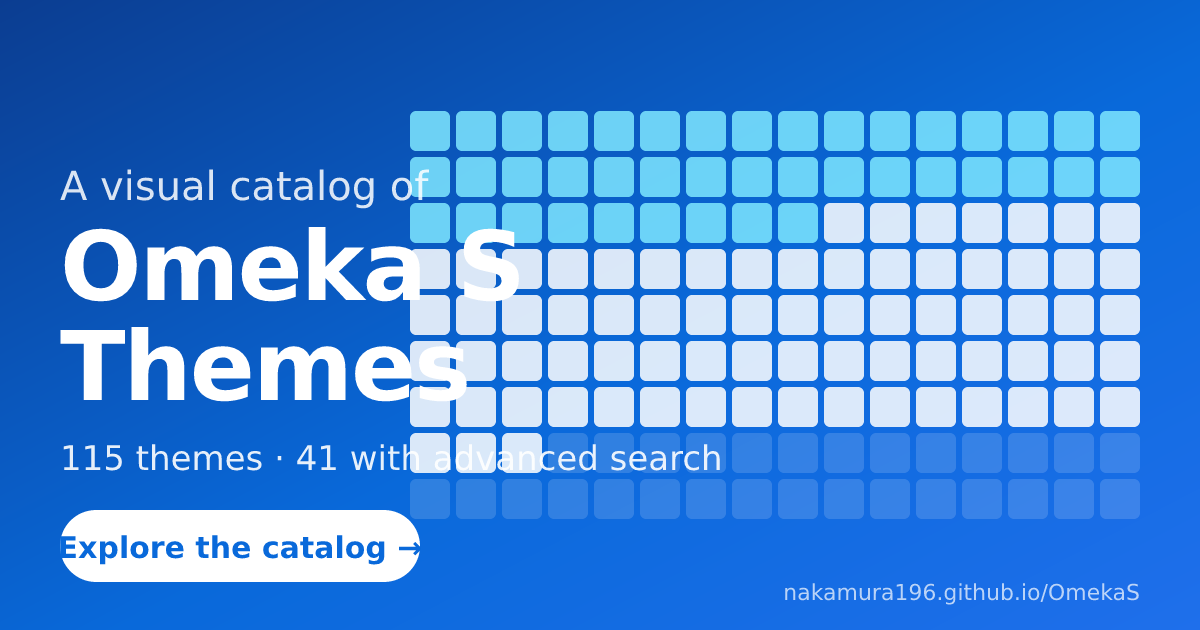
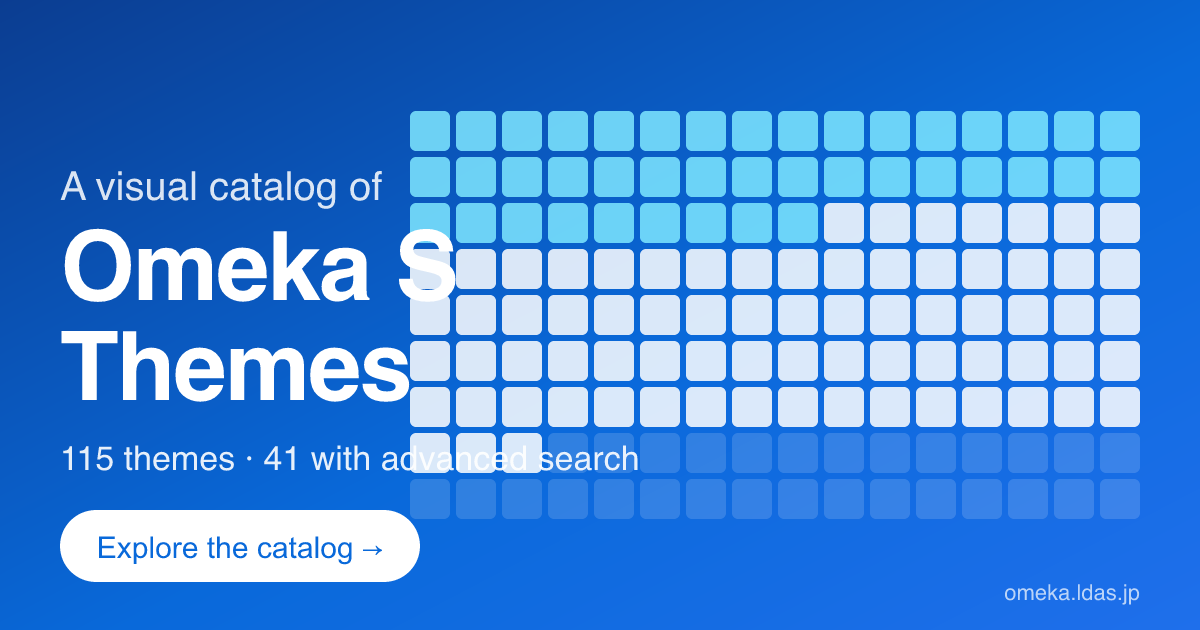
feat: 公開 URL を omeka.ldas.jp に移す (#2)
- scripts/build.mjs の SITE_URL を https://omeka.ldas.jp/ に。OGP 画像に焼き込むホスト名もここから
- build.mjs が docs/CNAME・robots.txt・sitemap.xml も書き出し、毎日の自動更新でコミットする
- 旧 github.io/OmekaS/ は GitHub Pages が同じパスへ 301
- テスト追加: npm test (生成関数と docs/ の公開 URL の固定 + 参照切れ・/ 始まり・旧ホスト文字列の検査)。
  PR の CI と、毎日の自動更新のコミット前に実行。npm run test:live は配布後の本番確認
- Actions を SHA で固定、Dependabot (npm・Actions、cooldown 付き) を追加

diff --git a/docs/index.html b/docs/index.html
@@ -5,7 +5,7 @@
 <meta name="viewport" content="width=device-width, initial-scale=1.0">
 <title>Omeka S Themes — GitHubで公開されているOmeka Sテーマのビジュアルカタログ</title>
 <meta name="description" content="GitHub上で公開されている115件超のOmeka Sテーマをビジュアル付きで一覧できるカタログサイトです。サムネイル・スター数・更新日・説明文を確認でき、名前/オーナー検索、ソート、高度検索対応テーマ(41件)での絞り込みに対応。毎日自動更新。">
-<link rel="canonical" href="https://nakamura196.github.io/OmekaS/">
+<link rel="canonical" href="https://omeka.ldas.jp/">
 
 <!-- Favicon -->
 <link rel="icon" type="image/svg+xml" href="./favicon.svg">
@@ -15,8 +15,8 @@
 <meta property="og:site_name" content="Omeka S Themes — GitHubで公開されているOmeka Sテーマのビジュアルカタログ">
 <meta property="og:title" content="Omeka S Themes — GitHubで公開されているOmeka Sテーマのビジュアルカタログ">
 <meta property="og:description" content="GitHub上で公開されている115件超のOmeka Sテーマをビジュアル付きで一覧できるカタログサイトです。サムネイル・スター数・更新日・説明文を確認でき、名前/オーナー検索、ソート、高度検索対応テーマ(41件)での絞り込みに対応。毎日自動更新。">
-<meta property="og:url" content="https://nakamura196.github.io/OmekaS/">
-<meta property="og:image" content="https://nakamura196.github.io/OmekaS/ogp.png">
+<meta property="og:url" content="https://omeka.ldas.jp/">
+<meta property="og:image" content="https://omeka.ldas.jp/ogp.png">
 <meta property="og:image:width" content="1200">
 <meta property="og:image:height" content="630">
 <meta property="og:image:alt" content="A visual catalog of Omeka S themes hosted on GitHub.">
@@ -26,7 +26,7 @@
 <meta name="twitter:card" content="summary_large_image">
 <meta name="twitter:title" content="Omeka S Themes — GitHubで公開されているOmeka Sテーマのビジュアルカタログ">
 <meta name="twitter:description" content="GitHub上で公開されている115件超のOmeka Sテーマをビジュアル付きで一覧できるカタログサイトです。サムネイル・スター数・更新日・説明文を確認でき、名前/オーナー検索、ソート、高度検索対応テーマ(41件)での絞り込みに対応。毎日自動更新。">
-<meta name="twitter:image" content="https://nakamura196.github.io/OmekaS/ogp.png">
+<meta name="twitter:image" content="https://omeka.ldas.jp/ogp.png">
 <meta name="twitter:image:alt" content="A visual catalog of Omeka S themes hosted on GitHub.">
 <style>
   :root {
@@ -86,7 +86,7 @@
   <div class="grid" id="grid"></div>
 </main>
 <footer>
-  Built at 2026-09-24T02:15:15.795Z · Source: <a href="https://github.com/Daniel-KM/UpgradeToOmekaS" target="_blank" rel="noopener">UpgradeToOmekaS</a>
+  Built at 2026-09-25T01:42:50.934Z · Source: <a href="https://github.com/Daniel-KM/UpgradeToOmekaS" target="_blank" rel="noopener">UpgradeToOmekaS</a>
 </footer>
 <script id="data" type="application/json">[{"name":"bookshelf","owner":"indic-archive","url":"https://github.com/indic-archive/bookshelf","description":"Bookshelf is a theme for Omeka S","stars":7,"last_updated":"2024-11-13T11:12:35Z","theme_url":"https://raw.githubusercontent.com/indic-archive/bookshelf/master/theme.jpg","has_advanced_search":false},{"name":"foundation","owner":"omeka-s-themes","url":"https://github.com/omeka-s-themes/foundation","description":"An Omeka S theme based off ZURB Foundation","stars":7,"last_updated":"2026-09-03T15:53:57Z","theme_url":"https://raw.githubusercontent.com/omeka-s-themes/foundation/main/theme.jpg","has_advanced_search":false},{"name":"omeka-s-theme-multilingual","owner":"arepr","url":"https://github.com/arepr/omeka-s-theme-multilingual","description":"Locale switching for Omeka S","stars":6,"last_updated":"2026-03-10T15:38:20Z","theme_url":"https://raw.githubusercontent.com/arepr/omeka-s-theme-multilingual/main/theme.jpg","has_advanced_search":false},{"name":"freedom","owner":"omeka-s-themes","url":"https://github.com/omeka-s-themes/freedom","description":"An Omeka S Theme","stars":4,"last_updated":"2026-09-12T02:23:53Z","theme_url":"https://raw.githubusercontent.com/omeka-s-themes/freedom/master/theme.jpg","has_advanced_search":true},{"name":"thedaily","owner":"omeka-s-themes","url":"https://github.com/omeka-s-themes/thedaily","description":null,"stars":4,"last_updated":"2026-09-03T15:53:42Z","theme_url":"https://raw.githubusercontent.com/omeka-s-themes/thedaily/main/theme.jpg","has_advanced_search":false},{"name":"AgileBaseOmekaTheme","owner":"agile-humanities","url":"https://github.com/agile-humanities/AgileBaseOmekaTheme","description":null,"stars":3,"last_updated":"2025-10-07T12:44:39Z","theme_url":null,"has_advanced_search":true},{"name":"centerrow","owner":"omeka-s-themes","url":"https://github.com/omeka-s-themes/centerrow","description":null,"stars":3,"last_updated":"2026-07-31T19:23:06Z","theme_url":"https://raw.githubusercontent.com/omeka-s-themes/centerrow/master/theme.jpg","has_advanced_search":false},{"name":"default","owner":"omeka-s-themes","url":"https://github.com/omeka-s-themes/default","description":null,"stars":3,"last_updated":"2026-09-03T15:50:59Z","theme_url":"https://raw.githubusercontent.com/omeka-s-themes/default/main/theme.jpg","has_advanced_search":false},{"name":"exhibits-omeka-s-theme","owner":"dharc-org","url":"https://github.com/dharc-org/exhibits-omeka-s-theme","description":null,"stars":3,"last_updated":"2026-04-14T14:28:36Z","theme_url":"https://raw.githubusercontent.com/dharc-org/exhibits-omeka-s-theme/main/theme.jpg","has_advanced_search":true},{"name":"Omeka-S-theme-psl","owner":"Daniel-KM","url":"https://github.com/Daniel-KM/Omeka-S-theme-psl","description":"PSL theme for Omeka S","stars":3,"last_updated":"2021-09-29T00:09:27Z","theme_url":"https://raw.githubusercontent.com/Daniel-KM/Omeka-S-theme-psl/master/theme.jpg","has_advanced_search":false},{"name":"speakout","owner":"dartmouth-dltg","url":"https://github.com/dartmouth-dltg/speakout","description":"Omeka-S theme for Dartmouth College Library's SpeakOut project","stars":3,"last_updated":"2025-03-26T20:32:36Z","theme_url":"https://raw.githubusercontent.com/dartmouth-dltg/speakout/main/theme.jpg","has_advanced_search":false},{"name":"bcda-theme","owner":"Omeka-External","url":"https://github.com/Omeka-External/bcda-theme","description":null,"stars":2,"last_updated":"2026-04-20T13:56:01Z","theme_url":"https://raw.githubusercontent.com/Omeka-External/bcda-theme/master/theme.jpg","has_advanced_search":false},{"name":"cozy","owner":"omeka-s-themes","url":"https://github.com/omeka-s-themes/cozy","description":null,"stars":2,"last_updated":"2026-09-08T14:07:28Z","theme_url":"https://raw.githubusercontent.com/omeka-s-themes/cozy/main/theme.jpg","has_advanced_search":false},{"name":"historical-accountability","owner":"dartmouth-dltg","url":"https://github.com/dartmouth-dltg/historical-accountability","description":"Custom Omeka-S theme for Dartmouth Library's Historical Accountability Project","stars":2,"last_updated":"2025-12-01T21:09:05Z","theme_url":"https://raw.githubusercontent.com/dartmouth-dltg/historical-accountability/main/theme.jpg","has_advanced_search":false},{"name":"lively","owner":"omeka-s-themes","url":"https://github.com/omeka-s-themes/lively","description":null,"stars":2,"last_updated":"2026-09-12T02:23:44Z","theme_url":"https://raw.githubusercontent.com/omeka-s-themes/lively/master/theme.jpg","has_advanced_search":true},{"name":"Omeka-S-Bootstrap-Theme","owner":"Libnamic","url":"https://github.com/Libnamic/Omeka-S-Bootstrap-Theme","description":null,"stars":2,"last_updated":"2022-11-07T15:11:07Z","theme_url":"https://raw.githubusercontent.com/Libnamic/Omeka-S-Bootstrap-Theme/master/theme.jpg","has_advanced_search":true},{"name":"Omeka-S-theme-Bootstrap5","owner":"ldasjp8","url":"https://github.com/ldasjp8/Omeka-S-theme-Bootstrap5","description":"[DEPRECATED] Moved to https://github.com/nakamura196/Omeka-S-theme-Bootstrap5","stars":2,"last_updated":"2025-08-29T21:56:27Z","theme_url":"https://raw.githubusercontent.com/ldasjp8/Omeka-S-theme-Bootstrap5/main/theme.jpg","has_advanced_search":true},{"name":"omeka-s-theme-DigitalMuret","owner":"INHAParis","url":"https://github.com/INHAParis/omeka-s-theme-DigitalMuret","description":"DigitalMuret theme for Omeka S","stars":2,"last_updated":"2025-10-21T08:42:54Z","theme_url":"https://raw.githubusercontent.com/INHAParis/omeka-s-theme-DigitalMuret/master/theme.jpg","has_advanced_search":false},{"name":"Omeka-S-theme-ExploreGrid","owner":"hxsllc","url":"https://github.com/hxsllc/Omeka-S-theme-ExploreGrid","description":"A responsive theme for Omeka-S v3.x with full configuration controls","stars":2,"last_updated":"2022-03-31T18:11:53Z","theme_url":"https://raw.githubusercontent.com/hxsllc/Omeka-S-theme-ExploreGrid/main/theme.jpg","has_advanced_search":false},{"name":"Omeka-S-theme-IIP","owner":"hxsllc","url":"https://github.com/hxsllc/Omeka-S-theme-IIP","description":"Omeka-S theme built for International Institute for Peace, Rutgers University","stars":2,"last_updated":"2021-09-29T00:09:14Z","theme_url":"https://raw.githubusercontent.com/hxsllc/Omeka-S-theme-IIP/main/theme.jpg","has_advanced_search":false},{"name":"plugin-AjaxCreate","owner":"omeka","url":"https://github.com/omeka/plugin-AjaxCreate","description":"Omeka plugin to add a way to create new records via ajax","stars":2,"last_updated":"2013-12-17T12:51:21Z","theme_url":null,"has_advanced_search":false},{"name":"ajotpy_theme","owner":"kylelarkin","url":"https://github.com/kylelarkin/ajotpy_theme","description":"A Journal of the Plague Year Custom Omeka S Theme","stars":1,"last_updated":"2023-07-26T17:01:15Z","theme_url":"https://raw.githubusercontent.com/kylelarkin/ajotpy_theme/master/theme.jpg","has_advanced_search":false},{"name":"basic-dartmouth-theme","owner":"dartmouth-dltg","url":"https://github.com/dartmouth-dltg/basic-dartmouth-theme","description":"A very basic Dartmouth Library Omeka-S theme","stars":1,"last_updated":"2025-12-01T21:07:13Z","theme_url":"https://raw.githubusercontent.com/dartmouth-dltg/basic-dartmouth-theme/main/theme.jpg","has_advanced_search":false},{"name":"bcda-child-theme","owner":"Omeka-External","url":"https://github.com/Omeka-External/bcda-child-theme","description":null,"stars":1,"last_updated":"2023-11-02T22:52:10Z","theme_url":"https://raw.githubusercontent.com/Omeka-External/bcda-child-theme/master/theme.jpg","has_advanced_search":true},{"name":"constellations-theme","owner":"Omeka-External","url":"https://github.com/Omeka-External/constellations-theme","description":null,"stars":1,"last_updated":"2026-08-19T20:59:37Z","theme_url":"https://raw.githubusercontent.com/Omeka-External/constellations-theme/main/theme.jpg","has_advanced_search":true},{"name":"dharc-omeka-s-theme","owner":"dharc-org","url":"https://github.com/dharc-org/dharc-omeka-s-theme","description":"Theme for Omeka-s","stars":1,"last_updated":"2022-11-24T14:52:56Z","theme_url":"https://raw.githubusercontent.com/dharc-org/dharc-omeka-s-theme/master/theme.jpg","has_advanced_search":false},{"name":"digitalcollecting","owner":"scholarslab","url":"https://github.com/scholarslab/digitalcollecting","description":"A theme for Omeka S","stars":1,"last_updated":"2020-11-02T23:28:29Z","theme_url":"https://raw.githubusercontent.com/scholarslab/digitalcollecting/master/theme.jpg","has_advanced_search":false},{"name":"IWAC-theme","owner":"fmadore","url":"https://github.com/fmadore/IWAC-theme","description":"Omeka S theme for the Islam West Africa Collection, an open-access francophone digital collection at ZMO Berlin. OKLCH design tokens, light/dark mode, EN/FR, WCAG 2.1 AA.","stars":1,"last_updated":"2026-09-18T14:57:11Z","theme_url":"https://raw.githubusercontent.com/fmadore/IWAC-theme/master/theme.jpg","has_advanced_search":false},{"name":"korematsu-theme","owner":"Omeka-External","url":"https://github.com/Omeka-External/korematsu-theme","description":null,"stars":1,"last_updated":"2026-08-20T23:49:42Z","theme_url":"https://raw.githubusercontent.com/Omeka-External/korematsu-theme/main/theme.jpg","has_advanced_search":true},{"name":"mitlibraries-theme-omeka","owner":"MITLibraries","url":"https://github.com/MITLibraries/mitlibraries-theme-omeka","description":"A theme for Omeka S","stars":1,"last_updated":"2026-05-21T18:18:04Z","theme_url":"https://raw.githubusercontent.com/MITLibraries/mitlibraries-theme-omeka/main/theme.jpg","has_advanced_search":true},{"name":"omeka-s-gpppoc-theme","owner":"kingsdigitallab","url":"https://github.com/kingsdigitallab/omeka-s-gpppoc-theme","description":null,"stars":1,"last_updated":"2018-01-18T08:49:15Z","theme_url":null,"has_advanced_search":false},{"name":"omeka-s-theme","owner":"religious-ecologies","url":"https://github.com/religious-ecologies/omeka-s-theme","description":null,"stars":1,"last_updated":"2023-12-18T03:47:05Z","theme_url":null,"has_advanced_search":true},{"name":"Omeka-S-theme-3DHOmekaS","owner":"FedericoNurra","url":"https://github.com/FedericoNurra/Omeka-S-theme-3DHOmekaS","description":"An Omeka S theme for 3DHOP visualisations","stars":1,"last_updated":"2026-03-22T15:30:27Z","theme_url":"https://raw.githubusercontent.com/FedericoNurra/Omeka-S-theme-3DHOmekaS/main/theme.jpg","has_advanced_search":true},{"name":"Omeka-S-theme-Bootstrap5","owner":"nakamura196","url":"https://github.com/nakamura196/Omeka-S-theme-Bootstrap5","description":null,"stars":1,"last_updated":"2025-09-11T15:37:38Z","theme_url":"https://raw.githubusercontent.com/nakamura196/Omeka-S-theme-Bootstrap5/main/theme.jpg","has_advanced_search":true},{"name":"omeka-s-theme-omekalia","owner":"biblibre","url":"https://github.com/biblibre/omeka-s-theme-omekalia","description":null,"stars":1,"last_updated":"2026-07-27T15:35:48Z","theme_url":"https://raw.githubusercontent.com/biblibre/omeka-s-theme-omekalia/master/theme.jpg","has_advanced_search":true},{"name":"omeka-s-theme-slavery-images","owner":"SlaveryImages","url":"https://github.com/SlaveryImages/omeka-s-theme-slavery-images","description":"Omeka S theme for SlaveryImages.org","stars":1,"last_updated":"2020-12-10T20:24:58Z","theme_url":"https://raw.githubusercontent.com/SlaveryImages/omeka-s-theme-slavery-images/master/theme.jpg","has_advanced_search":true},{"name":"omeka-s-theme-starterkit","owner":"sinanatra","url":"https://github.com/sinanatra/omeka-s-theme-starterkit","description":"This repo is my own starterkit for Omeka S projects","stars":1,"last_updated":"2024-06-30T21:39:26Z","theme_url":null,"has_advanced_search":false},{"name":"omekas-bootstrap-theme","owner":"medeopolis","url":"https://github.com/medeopolis/omekas-bootstrap-theme","description":"Omeka S theme based on bootstrap 3.3.7","stars":1,"last_updated":"2022-10-03T01:15:25Z","theme_url":"https://raw.githubusercontent.com/medeopolis/omekas-bootstrap-theme/master/theme.jpg","has_advanced_search":true},{"name":"OmekaS-Marriott-Library-Default-Theme","owner":"marriott-library","url":"https://github.com/marriott-library/OmekaS-Marriott-Library-Default-Theme","description":null,"stars":1,"last_updated":"2026-02-03T00:04:45Z","theme_url":"https://raw.githubusercontent.com/marriott-library/OmekaS-Marriott-Library-Default-Theme/master/theme.jpg","has_advanced_search":false},{"name":"Omekatheme","owner":"Libnamic","url":"https://github.com/Libnamic/Omekatheme","description":"theme for Omeka S ","stars":1,"last_updated":"2021-04-09T12:12:28Z","theme_url":"https://raw.githubusercontent.com/Libnamic/Omekatheme/master/theme.jpg","has_advanced_search":false},{"name":"the-fifty-acres","owner":"Liziloo","url":"https://github.com/Liziloo/the-fifty-acres","description":null,"stars":1,"last_updated":"2026-09-20T16:20:54Z","theme_url":"https://raw.githubusercontent.com/Liziloo/the-fifty-acres/main/theme.jpg","has_advanced_search":false},{"name":"UMFA-OmekaS-Theme","owner":"marriott-library","url":"https://github.com/marriott-library/UMFA-OmekaS-Theme","description":null,"stars":1,"last_updated":"2023-05-29T20:57:30Z","theme_url":"https://raw.githubusercontent.com/marriott-library/UMFA-OmekaS-Theme/main/theme.jpg","has_advanced_search":false},{"name":"UO-Library-Omeka-S-Theme","owner":"uoregon-libraries","url":"https://github.com/uoregon-libraries/UO-Library-Omeka-S-Theme","description":"A theme for Omeka S based on the default theme","stars":1,"last_updated":"2026-08-26T14:28:56Z","theme_url":"https://raw.githubusercontent.com/uoregon-libraries/UO-Library-Omeka-S-Theme/main/theme.jpg","has_advanced_search":false},{"name":"ahp-theme","owner":"pols12","url":"https://github.com/pols12/ahp-theme","description":"Omeka-S theme for e-HP website.","stars":0,"last_updated":"2018-08-12T22:20:08Z","theme_url":null,"has_advanced_search":false},{"name":"anwuvbeo-theme","owner":"IRISCenter","url":"https://github.com/IRISCenter/anwuvbeo-theme","description":"An Omeka S theme for the Schaefer Edoid Archive","stars":0,"last_updated":"2022-03-16T01:29:59Z","theme_url":"https://raw.githubusercontent.com/IRISCenter/anwuvbeo-theme/main/theme.jpg","has_advanced_search":false},{"name":"appalachian-trails","owner":"chnm","url":"https://github.com/chnm/appalachian-trails","description":"Omeka S theme for All the Appalachian Trails","stars":0,"last_updated":"2023-05-18T00:39:45Z","theme_url":null,"has_advanced_search":false},{"name":"byui-spc","owner":"jonfackrell","url":"https://github.com/jonfackrell/byui-spc","description":"A theme for Omeka S","stars":0,"last_updated":"2020-05-17T04:40:34Z","theme_url":"https://raw.githubusercontent.com/jonfackrell/byui-spc/master/theme.jpg","has_advanced_search":true},{"name":"cdash-theme","owner":"C-Dash","url":"https://github.com/C-Dash/cdash-theme","description":"An Omeka-S theme that supports a map interface, external map services  and a hierarchy pf Place and Document Items.","stars":0,"last_updated":"2025-07-02T13:54:47Z","theme_url":"https://raw.githubusercontent.com/C-Dash/cdash-theme/main/theme.jpg","has_advanced_search":false},{"name":"centerrow-taep","owner":"hxsllc","url":"https://github.com/hxsllc/centerrow-taep","description":"Edison Papers Omeka theme","stars":0,"last_updated":"2024-02-26T21:19:02Z","theme_url":"https://raw.githubusercontent.com/hxsllc/centerrow-taep/main/theme.jpg","has_advanced_search":true},{"name":"centerrow-temple","owner":"tulibraries","url":"https://github.com/tulibraries/centerrow-temple","description":"Customized Omeka-S theme based on CenterRow by the Omeka Team","stars":0,"last_updated":"2023-02-20T13:22:45Z","theme_url":"https://raw.githubusercontent.com/tulibraries/centerrow-temple/main/theme.jpg","has_advanced_search":false},{"name":"centerrowLoyola150","owner":"zmstella","url":"https://github.com/zmstella/centerrowLoyola150","description":"Files/documentation for the Then and Now: 150 at Loyola University Chicago development site ('centerrow' child theme)","stars":0,"last_updated":"2022-04-29T14:20:08Z","theme_url":"https://raw.githubusercontent.com/zmstella/centerrowLoyola150/main/theme.jpg","has_advanced_search":false},{"name":"clarity","owner":"omeka-s-themes","url":"https://github.com/omeka-s-themes/clarity","description":null,"stars":0,"last_updated":"2022-01-20T19:19:17Z","theme_url":null,"has_advanced_search":true},{"name":"collecting-these-times-spoke","owner":"chnm","url":"https://github.com/chnm/collecting-these-times-spoke","description":null,"stars":0,"last_updated":"2021-02-24T14:53:20Z","theme_url":"https://raw.githubusercontent.com/chnm/collecting-these-times-spoke/main/theme.jpg","has_advanced_search":true},{"name":"default-fondo-documental-ilv","owner":"MonicaCabanas23","url":"https://github.com/MonicaCabanas23/default-fondo-documental-ilv","description":null,"stars":0,"last_updated":"2026-08-26T03:04:07Z","theme_url":"https://raw.githubusercontent.com/MonicaCabanas23/default-fondo-documental-ilv/main/theme.jpg","has_advanced_search":false},{"name":"dlme-omeka-s-theme","owner":"waynegraham","url":"https://github.com/waynegraham/dlme-omeka-s-theme","description":"Omeka S theme for DLME Registry","stars":0,"last_updated":"2021-09-02T13:40:02Z","theme_url":"https://raw.githubusercontent.com/waynegraham/dlme-omeka-s-theme/main/theme.jpg","has_advanced_search":true},{"name":"DRE-theme","owner":"AM-Digital-Research-Environment","url":"https://github.com/AM-Digital-Research-Environment/DRE-theme","description":"Omeka S theme for the Africa Multiple Cluster of Excellence (University of Bayreuth) — a “Scholarly Modernism” design system on an OKLCH design-token foundation, with first-class light and dark modes.","stars":0,"last_updated":"2026-09-22T08:27:19Z","theme_url":"https://raw.githubusercontent.com/AM-Digital-Research-Environment/DRE-theme/master/theme.jpg","has_advanced_search":false},{"name":"exhibits-omeka-s-theme","owner":"katalu","url":"https://github.com/katalu/exhibits-omeka-s-theme","description":null,"stars":0,"last_updated":"2021-11-16T09:17:30Z","theme_url":"https://raw.githubusercontent.com/katalu/exhibits-omeka-s-theme/main/theme.jpg","has_advanced_search":true},{"name":"fam-oer-theme","owner":"Omeka-External","url":"https://github.com/Omeka-External/fam-oer-theme","description":null,"stars":0,"last_updated":"2026-09-17T01:16:18Z","theme_url":"https://raw.githubusercontent.com/Omeka-External/fam-oer-theme/main/theme.jpg","has_advanced_search":true},{"name":"fit-aod","owner":"fitnycdigitalinitiatives","url":"https://github.com/fitnycdigitalinitiatives/fit-aod","description":"Omeka-S theme for Archive on Demand","stars":0,"last_updated":"2026-05-07T15:46:41Z","theme_url":"https://raw.githubusercontent.com/fitnycdigitalinitiatives/fit-aod/main/theme.jpg","has_advanced_search":true},{"name":"fit-df","owner":"fitnycdigitalinitiatives","url":"https://github.com/fitnycdigitalinitiatives/fit-df","description":"Designer Files omeka-s theme","stars":0,"last_updated":"2026-05-07T15:56:36Z","theme_url":"https://raw.githubusercontent.com/fitnycdigitalinitiatives/fit-df/main/theme.jpg","has_advanced_search":true},{"name":"fit-fc","owner":"fitnycdigitalinitiatives","url":"https://github.com/fitnycdigitalinitiatives/fit-fc","description":"Fashion Calendar theme for omeka-s","stars":0,"last_updated":"2026-04-22T12:56:54Z","theme_url":"https://raw.githubusercontent.com/fitnycdigitalinitiatives/fit-fc/main/theme.jpg","has_advanced_search":true},{"name":"fit-ir","owner":"fitnycdigitalinitiatives","url":"https://github.com/fitnycdigitalinitiatives/fit-ir","description":"Omeka-S theme for the FIT Institutional Repository. Built upon Bootstrap framework. Works with FITModule, Relators Module, and FIT-forked Solr modules, and FIT-forked MetadataBrowse.","stars":0,"last_updated":"2026-05-07T15:43:32Z","theme_url":"https://raw.githubusercontent.com/fitnycdigitalinitiatives/fit-ir/main/theme.jpg","has_advanced_search":true},{"name":"fit-sd","owner":"fitnycdigitalinitiatives","url":"https://github.com/fitnycdigitalinitiatives/fit-sd","description":"Omeka-S theme for SPARC Digital","stars":0,"last_updated":"2026-06-11T20:24:15Z","theme_url":"https://raw.githubusercontent.com/fitnycdigitalinitiatives/fit-sd/main/theme.jpg","has_advanced_search":true},{"name":"gmu-cml-theme","owner":"Omeka-External","url":"https://github.com/Omeka-External/gmu-cml-theme","description":null,"stars":0,"last_updated":"2026-08-20T19:54:26Z","theme_url":"https://raw.githubusercontent.com/Omeka-External/gmu-cml-theme/main/theme.jpg","has_advanced_search":true},{"name":"hearing-the-americas","owner":"chnm","url":"https://github.com/chnm/hearing-the-americas","description":"Omeka S theme for Hearing the Americas","stars":0,"last_updated":"2023-05-18T00:41:50Z","theme_url":null,"has_advanced_search":false},{"name":"horses-in-medicine","owner":"Omeka-External","url":"https://github.com/Omeka-External/horses-in-medicine","description":"Fork of Foundation S with a custom stylesheet for Use of Horses in Medicine","stars":0,"last_updated":"2020-09-01T13:57:12Z","theme_url":"https://raw.githubusercontent.com/Omeka-External/horses-in-medicine/horse-theme/theme.jpg","has_advanced_search":true},{"name":"inglorious_artist_theme","owner":"UNC-Libraries-data","url":"https://github.com/UNC-Libraries-data/inglorious_artist_theme","description":null,"stars":0,"last_updated":"2024-04-19T18:20:43Z","theme_url":"https://raw.githubusercontent.com/UNC-Libraries-data/inglorious_artist_theme/main/theme.jpg","has_advanced_search":true},{"name":"ksharp","owner":"UIUCLibrary","url":"https://github.com/UIUCLibrary/ksharp","description":null,"stars":0,"last_updated":"2025-06-03T18:49:31Z","theme_url":"https://raw.githubusercontent.com/UIUCLibrary/ksharp/main/theme.jpg","has_advanced_search":false},{"name":"legacies-hub","owner":"Omeka-External","url":"https://github.com/Omeka-External/legacies-hub","description":null,"stars":0,"last_updated":"2022-04-28T19:05:59Z","theme_url":"https://raw.githubusercontent.com/Omeka-External/legacies-hub/main/theme.jpg","has_advanced_search":true},{"name":"legacies-spoke","owner":"Omeka-External","url":"https://github.com/Omeka-External/legacies-spoke","description":null,"stars":0,"last_updated":"2024-05-17T17:26:57Z","theme_url":"https://raw.githubusercontent.com/Omeka-External/legacies-spoke/main/theme.jpg","has_advanced_search":true},{"name":"omeka-foundation-theme","owner":"DigitalHDev","url":"https://github.com/DigitalHDev/omeka-foundation-theme","description":"omeka-foundation-theme","stars":0,"last_updated":"2026-08-30T13:45:59Z","theme_url":"https://raw.githubusercontent.com/DigitalHDev/omeka-foundation-theme/master/theme.jpg","has_advanced_search":false},{"name":"Omeka-S-Akrep-Theme","owner":"procesaur","url":"https://github.com/procesaur/Omeka-S-Akrep-Theme","description":"Theme for Omeka-S-based advanced active repositories","stars":0,"last_updated":"2026-05-09T13:46:35Z","theme_url":"https://raw.githubusercontent.com/procesaur/Omeka-S-Akrep-Theme/main/theme.jpg","has_advanced_search":false},{"name":"omeka-s-dlll-theme","owner":"billxu0521","url":"https://github.com/billxu0521/omeka-s-dlll-theme","description":"omeka s主題","stars":0,"last_updated":"2023-01-28T13:00:46Z","theme_url":"https://raw.githubusercontent.com/billxu0521/omeka-s-dlll-theme/master/theme.jpg","has_advanced_search":true},{"name":"Omeka-S-Library-Theme","owner":"fewarren","url":"https://github.com/fewarren/Omeka-S-Library-Theme","description":"Customized version of the Cumulus Omeka S Theme","stars":0,"last_updated":"2025-10-15T17:03:56Z","theme_url":"https://raw.githubusercontent.com/fewarren/Omeka-S-Library-Theme/main/theme.jpg","has_advanced_search":false},{"name":"omeka-s-registry","owner":"clirdlf","url":"https://github.com/clirdlf/omeka-s-registry","description":null,"stars":0,"last_updated":"2021-06-24T12:59:12Z","theme_url":null,"has_advanced_search":false},{"name":"Omeka-S-theme-Albert1er","owner":"Daniel-KM","url":"https://github.com/Daniel-KM/Omeka-S-theme-Albert1er","description":"Theme for PSL project \"Campagnes scientifiques d'Albert 1er de Monaco\"","stars":0,"last_updated":"2020-04-24T08:24:38Z","theme_url":"https://raw.githubusercontent.com/Daniel-KM/Omeka-S-theme-Albert1er/master/theme.jpg","has_advanced_search":false},{"name":"omeka-s-theme-atlas","owner":"ionm","url":"https://github.com/ionm/omeka-s-theme-atlas","description":"Atlas — an Omeka S theme: …","stars":0,"last_updated":"2026-09-04T14:42:30Z","theme_url":null,"has_advanced_search":false},{"name":"Omeka-S-theme-AudioBNF","owner":"samszo","url":"https://github.com/samszo/Omeka-S-theme-AudioBNF","description":null,"stars":0,"last_updated":"2025-03-31T09:46:40Z","theme_url":"https://raw.githubusercontent.com/samszo/Omeka-S-theme-AudioBNF/main/theme.jpg","has_advanced_search":false},{"name":"Omeka-S-theme-CartoAffect","owner":"samszo","url":"https://github.com/samszo/Omeka-S-theme-CartoAffect","description":null,"stars":0,"last_updated":"2022-07-25T06:12:07Z","theme_url":"https://raw.githubusercontent.com/samszo/Omeka-S-theme-CartoAffect/master/theme.jpg","has_advanced_search":false},{"name":"Omeka-S-theme-docarchive","owner":"utarchives","url":"https://github.com/utarchives/Omeka-S-theme-docarchive","description":null,"stars":0,"last_updated":"2023-03-30T04:44:26Z","theme_url":"https://raw.githubusercontent.com/utarchives/Omeka-S-theme-docarchive/main/theme.jpg","has_advanced_search":false},{"name":"Omeka-S-theme-EDISEM","owner":"samszo","url":"https://github.com/samszo/Omeka-S-theme-EDISEM","description":"EDItorialisation de SEMinaire","stars":0,"last_updated":"2022-01-30T09:06:10Z","theme_url":"https://raw.githubusercontent.com/samszo/Omeka-S-theme-EDISEM/main/theme.jpg","has_advanced_search":false},{"name":"Omeka-S-theme-FeuilletNumerique","owner":"samszo","url":"https://github.com/samszo/Omeka-S-theme-FeuilletNumerique","description":null,"stars":0,"last_updated":"2021-11-19T03:39:09Z","theme_url":"https://raw.githubusercontent.com/samszo/Omeka-S-theme-FeuilletNumerique/main/theme.jpg","has_advanced_search":false},{"name":"Omeka-S-theme-Generateur","owner":"samszo","url":"https://github.com/samszo/Omeka-S-theme-Generateur","description":null,"stars":0,"last_updated":"2025-08-20T04:45:58Z","theme_url":"https://raw.githubusercontent.com/samszo/Omeka-S-theme-Generateur/main/theme.jpg","has_advanced_search":false},{"name":"Omeka-S-theme-GenStory","owner":"samszo","url":"https://github.com/samszo/Omeka-S-theme-GenStory","description":null,"stars":0,"last_updated":"2022-03-03T08:12:07Z","theme_url":"https://raw.githubusercontent.com/samszo/Omeka-S-theme-GenStory/main/theme.jpg","has_advanced_search":false},{"name":"Omeka-S-theme-GentGemapt","owner":"GhentCDH","url":"https://github.com/GhentCDH/Omeka-S-theme-GentGemapt","description":null,"stars":0,"last_updated":"2024-08-28T13:46:30Z","theme_url":null,"has_advanced_search":false},{"name":"Omeka-S-theme-Interviews","owner":"samszo","url":"https://github.com/samszo/Omeka-S-theme-Interviews","description":null,"stars":0,"last_updated":"2024-12-02T10:58:32Z","theme_url":"https://raw.githubusercontent.com/samszo/Omeka-S-theme-Interviews/main/theme.jpg","has_advanced_search":false},{"name":"Omeka-S-theme-JDC","owner":"samszo","url":"https://github.com/samszo/Omeka-S-theme-JDC","description":null,"stars":0,"last_updated":"2021-10-24T06:54:38Z","theme_url":"https://raw.githubusercontent.com/samszo/Omeka-S-theme-JDC/main/theme.jpg","has_advanced_search":false},{"name":"omeka-s-theme-objets-pol","owner":"Kaeness","url":"https://github.com/Kaeness/omeka-s-theme-objets-pol","description":null,"stars":0,"last_updated":"2024-11-15T14:13:19Z","theme_url":"https://raw.githubusercontent.com/Kaeness/omeka-s-theme-objets-pol/main/theme.jpg","has_advanced_search":false},{"name":"omeka-s-theme-papyrus","owner":"boregar","url":"https://github.com/boregar/omeka-s-theme-papyrus","description":"A responsive theme for Omeka-S","stars":0,"last_updated":"2026-05-27T06:29:09Z","theme_url":null,"has_advanced_search":false},{"name":"Omeka-S-theme-PolemikaProto","owner":"samszo","url":"https://github.com/samszo/Omeka-S-theme-PolemikaProto","description":null,"stars":0,"last_updated":"2021-12-06T23:22:05Z","theme_url":"https://raw.githubusercontent.com/samszo/Omeka-S-theme-PolemikaProto/main/theme.jpg","has_advanced_search":false},{"name":"Omeka-S-theme-UOH","owner":"samszo","url":"https://github.com/samszo/Omeka-S-theme-UOH","description":null,"stars":0,"last_updated":"2021-07-29T08:05:58Z","theme_url":"https://raw.githubusercontent.com/samszo/Omeka-S-theme-UOH/main/theme.jpg","has_advanced_search":false},{"name":"Omeka-S-theme-ValoP8","owner":"samszo","url":"https://github.com/samszo/Omeka-S-theme-ValoP8","description":null,"stars":0,"last_updated":"2025-11-22T06:09:00Z","theme_url":"https://raw.githubusercontent.com/samszo/Omeka-S-theme-ValoP8/main/theme.jpg","has_advanced_search":false},{"name":"omeka-s-theme-yoruba-diaspora","owner":"SlaveryImages","url":"https://github.com/SlaveryImages/omeka-s-theme-yoruba-diaspora","description":"Omeka S theme for Yoruba Diaspora Site","stars":0,"last_updated":"2021-03-23T16:02:27Z","theme_url":"https://raw.githubusercontent.com/SlaveryImages/omeka-s-theme-yoruba-diaspora/master/theme.jpg","has_advanced_search":true},{"name":"Omeka-theme-McGoogan","owner":"brian-maass-unmc","url":"https://github.com/brian-maass-unmc/Omeka-theme-McGoogan","description":null,"stars":0,"last_updated":"2024-10-07T19:07:41Z","theme_url":"https://raw.githubusercontent.com/brian-maass-unmc/Omeka-theme-McGoogan/main/theme.jpg","has_advanced_search":false},{"name":"Omeka-theme-Wigton","owner":"brian-maass-unmc","url":"https://github.com/brian-maass-unmc/Omeka-theme-Wigton","description":"Theme for original Wigton Exhibits","stars":0,"last_updated":"2024-10-07T19:18:57Z","theme_url":"https://raw.githubusercontent.com/brian-maass-unmc/Omeka-theme-Wigton/main/theme.jpg","has_advanced_search":false},{"name":"OmekaS-Theme-CCSTWlib-Malaysia","owner":"billxu0521","url":"https://github.com/billxu0521/OmekaS-Theme-CCSTWlib-Malaysia","description":"CCSTWlib-Malaysia Theme for OmekaS","stars":0,"last_updated":"2020-11-03T06:06:55Z","theme_url":"https://raw.githubusercontent.com/billxu0521/OmekaS-Theme-CCSTWlib-Malaysia/master/theme.jpg","has_advanced_search":true},{"name":"omekas-theme-um","owner":"MaastrichtU-Library","url":"https://github.com/MaastrichtU-Library/omekas-theme-um","description":"Omeka S theme Maastricht University","stars":0,"last_updated":"2026-07-07T10:00:34Z","theme_url":"https://raw.githubusercontent.com/MaastrichtU-Library/omekas-theme-um/master/theme.jpg","has_advanced_search":false},{"name":"onthesegrounds-theme","owner":"kimisgold","url":"https://github.com/kimisgold/onthesegrounds-theme","description":null,"stars":0,"last_updated":"2023-12-11T20:41:20Z","theme_url":"https://raw.githubusercontent.com/kimisgold/onthesegrounds-theme/master/theme.jpg","has_advanced_search":true},{"name":"papers","owner":"omeka-s-themes","url":"https://github.com/omeka-s-themes/papers","description":"An Omeka S theme based on the Papers of the War Department.","stars":0,"last_updated":"2026-09-03T15:53:50Z","theme_url":"https://raw.githubusercontent.com/omeka-s-themes/papers/main/theme.jpg","has_advanced_search":false},{"name":"patrimoniouja","owner":"alfonsomontejo","url":"https://github.com/alfonsomontejo/patrimoniouja","description":"Patrimonio cultural de la Universidad de Jaén (tema para Omeka S 3.x)","stars":0,"last_updated":"2021-10-25T17:22:29Z","theme_url":"https://raw.githubusercontent.com/alfonsomontejo/patrimoniouja/main/theme.jpg","has_advanced_search":true},{"name":"pdd-omeka-s-theme","owner":"dharc-org","url":"https://github.com/dharc-org/pdd-omeka-s-theme","description":"Theme for Omeka-S","stars":0,"last_updated":"2024-09-03T10:30:01Z","theme_url":"https://raw.githubusercontent.com/dharc-org/pdd-omeka-s-theme/main/theme.jpg","has_advanced_search":true},{"name":"pwd-omeka-s","owner":"chnm","url":"https://github.com/chnm/pwd-omeka-s","description":"Theme for Papers of the War Department","stars":0,"last_updated":"2026-08-27T15:00:08Z","theme_url":null,"has_advanced_search":false},{"name":"reanimated","owner":"amoe","url":"https://github.com/amoe/reanimated","description":null,"stars":0,"last_updated":"2020-06-11T08:39:05Z","theme_url":null,"has_advanced_search":false},{"name":"Rosenwald-Fund-Collection","owner":"Fisk-University","url":"https://github.com/Fisk-University/Rosenwald-Fund-Collection","description":"A custom Omeka S theme developed for the Fisk University Rosenwald Project. This theme is designed to provide a visually accessible, archivist-friendly interface for exploring digitized materials related to Julius Rosenwald’s philanthropic impact on African-American education.","stars":0,"last_updated":"2026-06-03T19:53:02Z","theme_url":"https://raw.githubusercontent.com/Fisk-University/Rosenwald-Fund-Collection/main/theme.jpg","has_advanced_search":false},{"name":"ruza-custom-theme","owner":"DigitalHumanitiesCraft","url":"https://github.com/DigitalHumanitiesCraft/ruza-custom-theme","description":"Repo for the custom theme for the project \"Ružake gila\" (https://www.mdw.ac.at/musicandminorities/projekte/ruzake-gila/). Based on Bootstrap 5.","stars":0,"last_updated":"2025-09-25T07:49:46Z","theme_url":"https://raw.githubusercontent.com/DigitalHumanitiesCraft/ruza-custom-theme/main/theme.jpg","has_advanced_search":true},{"name":"still-theme","owner":"tulibraries","url":"https://github.com/tulibraries/still-theme","description":"William Still Family Site","stars":0,"last_updated":"2023-03-16T19:35:46Z","theme_url":"https://raw.githubusercontent.com/tulibraries/still-theme/main/theme.jpg","has_advanced_search":false},{"name":"storybooth","owner":"dartmouth-dltg","url":"https://github.com/dartmouth-dltg/storybooth","description":"An Omeka-S theme for a bespoke Dartmouth College site","stars":0,"last_updated":"2026-08-24T14:55:49Z","theme_url":"https://raw.githubusercontent.com/dartmouth-dltg/storybooth/main/theme.jpg","has_advanced_search":false},{"name":"StudycollectionOmekaTheme","owner":"tobiashendrickx","url":"https://github.com/tobiashendrickx/StudycollectionOmekaTheme","description":null,"stars":0,"last_updated":"2026-02-24T15:28:44Z","theme_url":"https://raw.githubusercontent.com/tobiashendrickx/StudycollectionOmekaTheme/main/theme.jpg","has_advanced_search":false},{"name":"thanksroy","owner":"omeka-s-themes","url":"https://github.com/omeka-s-themes/thanksroy","description":null,"stars":0,"last_updated":"2026-08-25T20:40:45Z","theme_url":"https://raw.githubusercontent.com/omeka-s-themes/thanksroy/main/theme.jpg","has_advanced_search":false},{"name":"theme_nebraskaland","owner":"CDRH","url":"https://github.com/CDRH/theme_nebraskaland","description":"Omeka S theme for migrated Nebraskaland Digital Archive.","stars":0,"last_updated":"2026-03-30T20:45:56Z","theme_url":"https://raw.githubusercontent.com/CDRH/theme_nebraskaland/main/theme.jpg","has_advanced_search":false},{"name":"theme_uslr","owner":"CDRH","url":"https://github.com/CDRH/theme_uslr","description":"This is a custom Omeka S theme based on Foundation S, created for the U.S. Law & Race Initiative's \"Equality Before the Law\" OER.","stars":0,"last_updated":"2025-12-04T00:59:59Z","theme_url":"https://raw.githubusercontent.com/CDRH/theme_uslr/dev/theme.jpg","has_advanced_search":false},{"name":"themeX","owner":"alexdryden","url":"https://github.com/alexdryden/themeX","description":"Omeka S theme for the BBIP project","stars":0,"last_updated":"2022-11-03T16:13:29Z","theme_url":null,"has_advanced_search":false},{"name":"uc-caan-theme","owner":"Omeka-External","url":"https://github.com/Omeka-External/uc-caan-theme","description":null,"stars":0,"last_updated":"2026-08-20T23:50:35Z","theme_url":"https://raw.githubusercontent.com/Omeka-External/uc-caan-theme/main/theme.jpg","has_advanced_search":true},{"name":"UO-Library-Omeka-S-Theme-Dark","owner":"uoregon-libraries","url":"https://github.com/uoregon-libraries/UO-Library-Omeka-S-Theme-Dark","description":null,"stars":0,"last_updated":"2023-05-02T21:31:31Z","theme_url":"https://raw.githubusercontent.com/uoregon-libraries/UO-Library-Omeka-S-Theme-Dark/main/theme.jpg","has_advanced_search":false},{"name":"yul-omeka-s-topnav","owner":"yalelibrary","url":"https://github.com/yalelibrary/yul-omeka-s-topnav","description":"Omeka S theme","stars":0,"last_updated":"2021-03-01T22:10:48Z","theme_url":"https://raw.githubusercontent.com/yalelibrary/yul-omeka-s-topnav/main/theme.jpg","has_advanced_search":false}]</script>
 <script>

diff --git a/README.md b/README.md
@@ -2,7 +2,7 @@
 
 GitHub 上で公開されている [Omeka S](https://omeka.org/s/) テーマの一覧を視覚的に確認できる静的サイトです。
 
-公開URL: https://nakamura196.github.io/OmekaS/
+公開URL: https://omeka.ldas.jp/ (旧 https://nakamura196.github.io/OmekaS/ は同じパスへ転送されます)
 
 ## 仕組み
 
